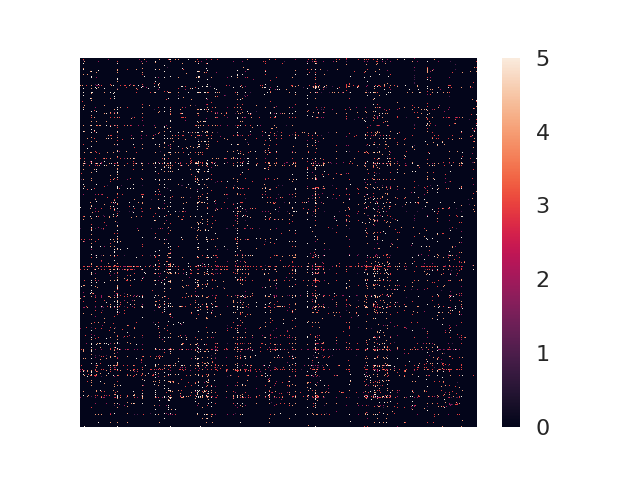
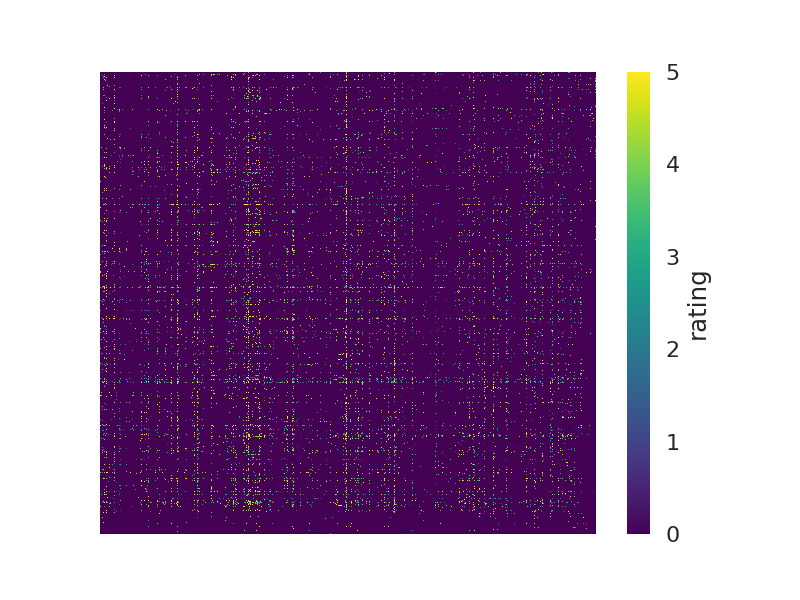
High DPI ratings heatmap, memory usage, iterate over test data

diff --git a/assignment1/assignment1.py b/assignment1/assignment1.py
@@ -9,6 +9,10 @@ Professor Marcelo Manzato
 Student: Felipe Scrochio Custódio - 9442688
 """
 
+import os
+import psutil
+
+import time
 import progressbar
 
 import pandas
@@ -18,6 +22,10 @@ import seaborn as sns
 
 
 def main():
+    # get current process for performance profiling
+    pid = os.getpid()
+    py = psutil.Process(pid)
+
     # read dataset
     movies_data = pandas.read_csv("csv/movies_data.csv")
     test_data = pandas.read_csv("csv/test_data.csv")
@@ -31,24 +39,39 @@ def main():
     train_data_matrix = np.empty((n_users, n_items))
     test_data_matrix = np.empty((n_users, n_items))
 
-    counter = 0
+    # generate (user x movie) ratings matrix
     print("Generating user x movie ratings matrix")
-    widgets = [progressbar.Percentage(), ' ', progressbar.AnimatedMarker()]
-    bar = progressbar.ProgressBar(widgets=widgets, max_value=len(train_data))
-    for row in train_data.itertuples():
-        user = getattr(row, "user_id") - 1
-        movie = getattr(row, "movie_id") - 1
-        rating = getattr(row, "rating")
-        train_data_matrix[user][movie] = rating
-        counter += 1
-        bar.update(counter)
-    print("")
+    with progressbar.ProgressBar(max_value=len(train_data)) as bar:
+        counter = 0
+        for row in train_data.itertuples():
+            user = getattr(row, "user_id") - 1
+            movie = getattr(row, "movie_id") - 1
+            rating = getattr(row, "rating")
+            train_data_matrix[user][movie] = rating
+            counter += 1
+            bar.update(counter)
 
-    sns.set()
-    sns.set_context("poster")
-    sns.heatmap(train_data_matrix, xticklabels=False, yticklabels=False)
-    plt.savefig("plots/initial_ratings.png")
+    # measure RAM impact
+    memoryUse = py.memory_info()[0]/2.**30  # memory use in GB
+    print('RAM usage: {0:.3g}GB'.format(memoryUse))
 
+    # plot initial ratings heatmap
+    # sns.set()
+    # sns.set_context("poster")
+    # sns.heatmap(train_data_matrix, xticklabels=False, yticklabels=False, cmap='viridis', cbar_kws={"label": "rating"})
+    # figure = plt.gcf()  # get current figure
+    # figure.set_size_inches(8, 6)
+    # # save with high DPI
+    # plt.savefig("plots/initial_ratings.png", dpi = 100)
+
+    # split training data into TRAIN and VALIDATION
+
+    # run algorithms with TEST
+    for row in test_data.itertuples():
+        user = getattr(row, "user_id")
+        movie = getattr(row, "movie_id")
+        movie_name = movies_data['title'][movie-1]
+        print("pred(user: {}, movie:{} movie_id: {})".format(user, movie_name, movie))
 
 if __name__ == '__main__':
     main()
